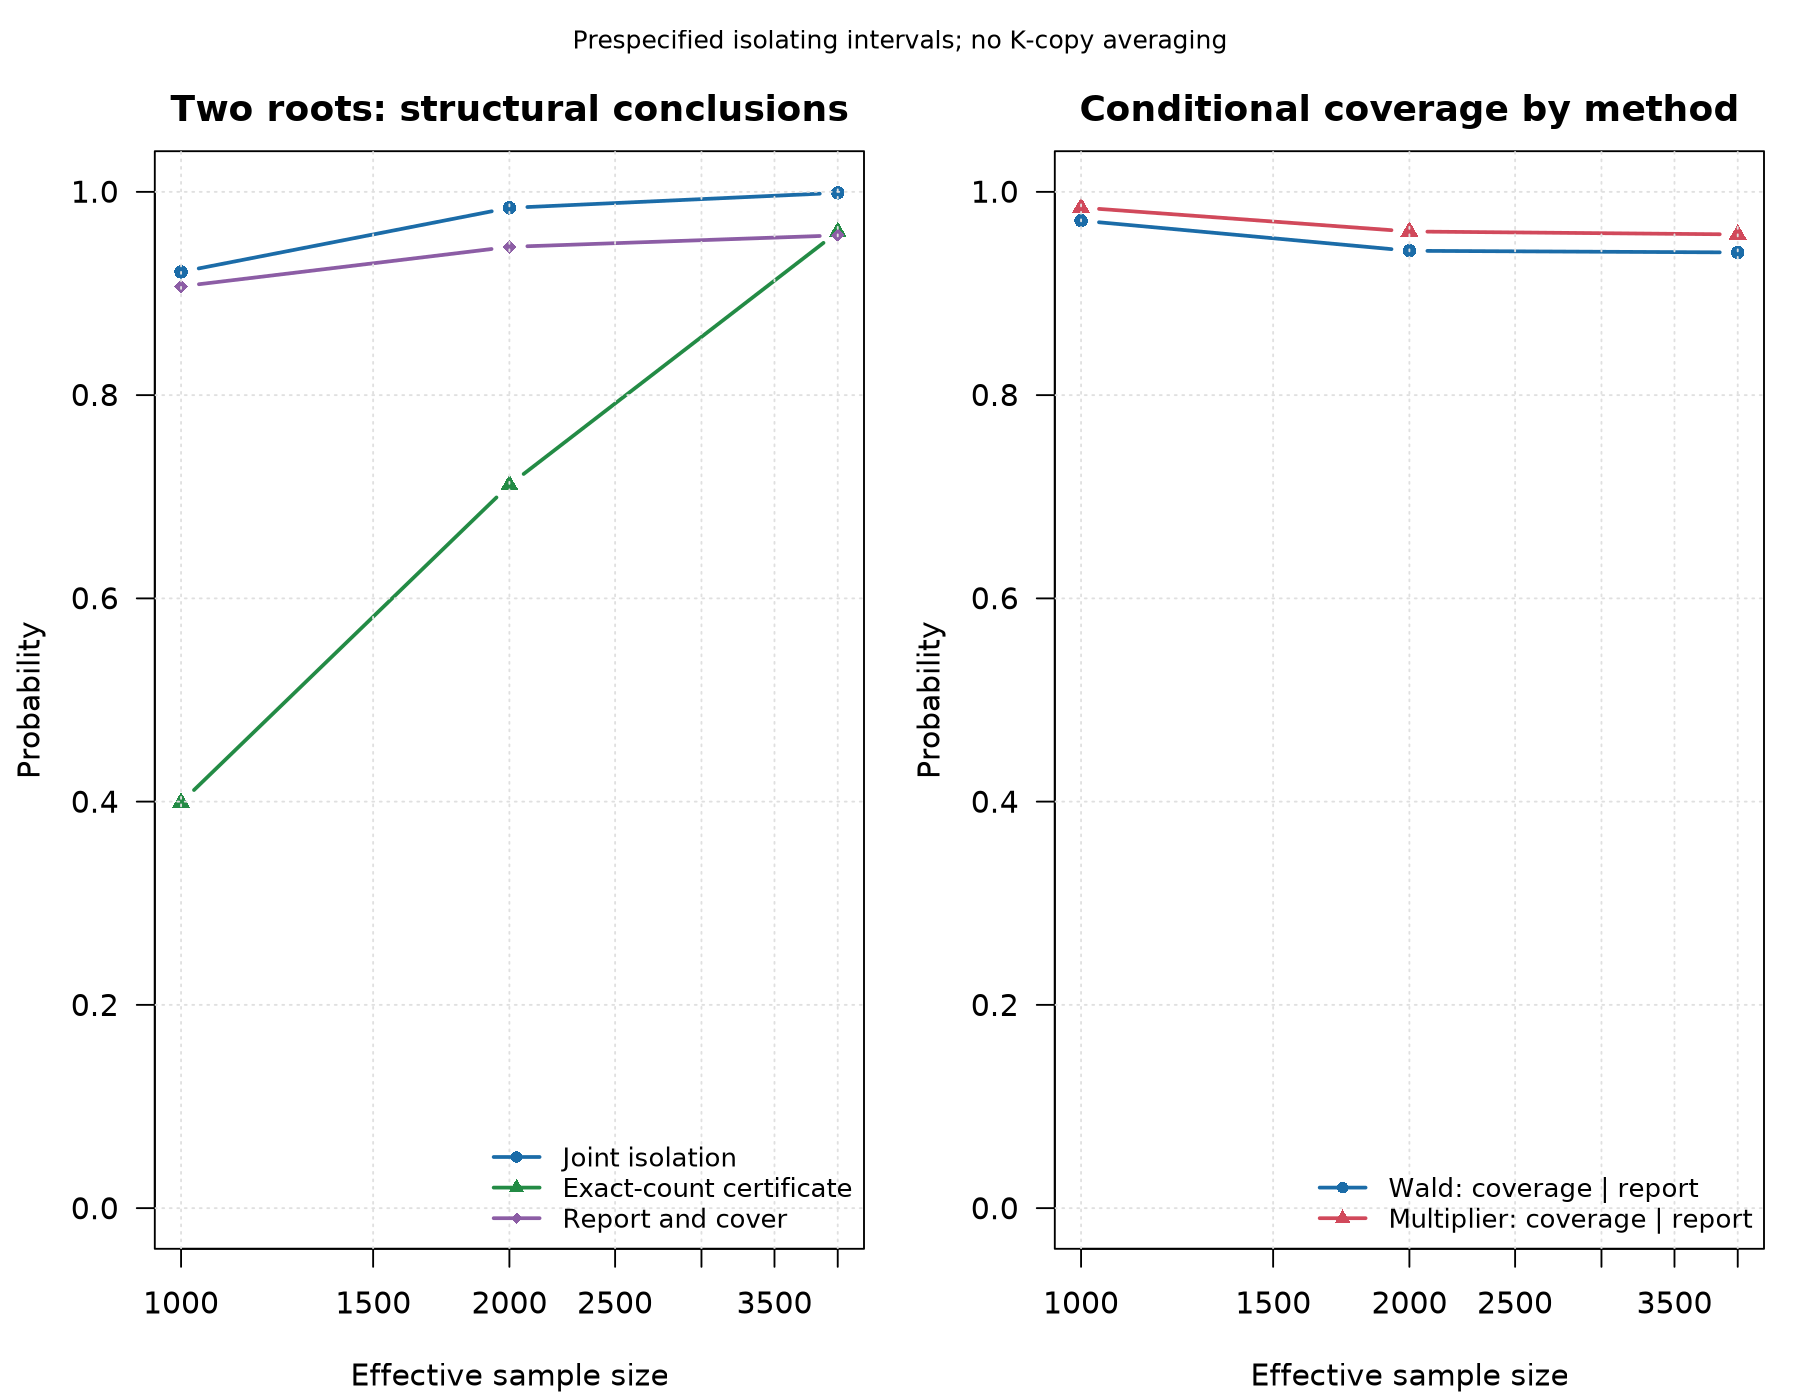
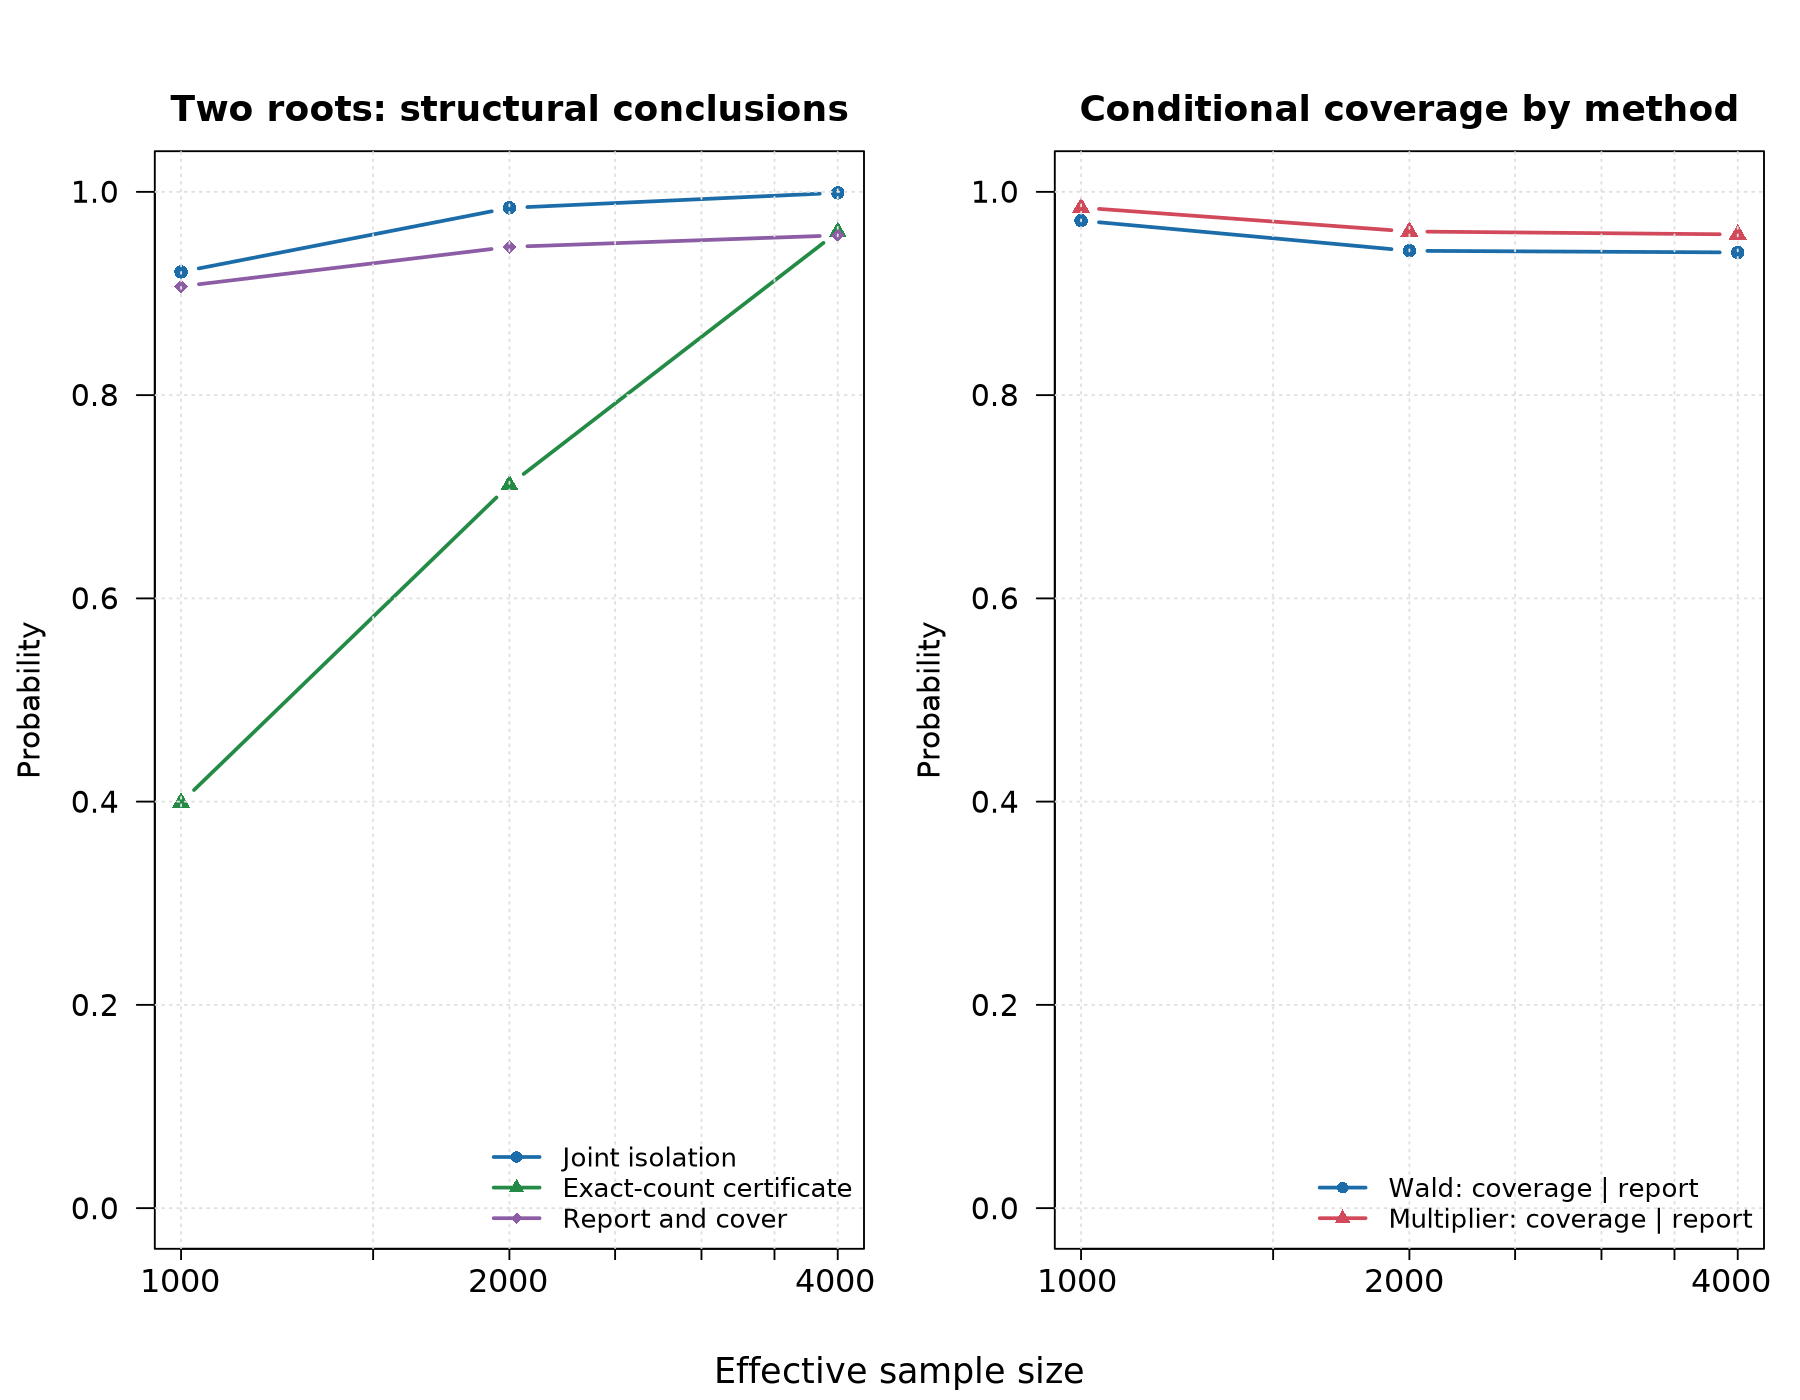
Finalize v1.3.0 reproducibility package

diff --git a/scripts/verify.py b/scripts/verify.py
@@ -21,6 +21,7 @@ SIMULATION_FILES = (
     "table_03_root_inference.csv",
     "table_04_special_power.csv",
     "table_05_tail_strata.csv",
+    "table_07_ablation.csv",
 )
 SIMULATION_FIGURES = (
     "figure_01_tangency_contraction.png",
@@ -41,6 +42,7 @@ HILLSTROM_FILES = (
     "bootstrap_suprema.csv",
     "audit_checks.csv",
     "rng_state_hashes.csv",
+    # Frozen pipeline filename; this is manuscript Table 8.
     "table_06_hillstrom_application.csv",
 )
 
@@ -83,6 +85,13 @@ def digest(path: Path) -> str:
 def csv_rows(path: Path) -> list[dict[str, str]]:
     with path.open(newline="", encoding="utf-8") as handle:
         return list(csv.DictReader(handle))
+
+
+def csv_table(path: Path) -> tuple[tuple[str, ...], list[dict[str, str]]]:
+    with path.open(newline="", encoding="utf-8") as handle:
+        reader = csv.DictReader(handle)
+        rows = list(reader)
+        return tuple(reader.fieldnames or ()), rows
 
 
 def manifest_entries(audit: Audit) -> dict[str, str]:
@@ -196,6 +205,7 @@ def verify_simulation(audit: Audit) -> None:
         "table_03_root_inference.csv": 12,
         "table_04_special_power.csv": 6,
         "table_05_tail_strata.csv": 5,
+        "table_07_ablation.csv": 5,
     }
     for name, count in expected_output_rows.items():
         path = output_directory / name
@@ -218,6 +228,41 @@ def verify_simulation(audit: Audit) -> None:
     audit.require(
         sum(int(row["replications"]) for row in tail) == 2032,
         "Tail-stratum replication total changed",
+    )
+
+    ablation = csv_rows(output_directory / "table_07_ablation.csv")
+    audit.require(
+        [(row["panel"], row["cell_id"], row["quantity"]) for row in ablation]
+        == [
+            ("A", "M004_LN_EQUAL_n500", "Curve coverage"),
+            ("A", "M008_LN_NO_ROOT_n500", "Curve coverage"),
+            ("A", "M052_TWO_ROOT_SV_POWER_n2000", "Curve coverage"),
+            ("B", "M008_LN_NO_ROOT_n500", "No root"),
+            ("B", "M052_TWO_ROOT_SV_POWER_n2000", "Reversal"),
+        ],
+        "Ablation rows or order changed",
+    )
+    audit.require(
+        all(row["denominator"] == "2032" for row in ablation),
+        "Ablation denominator changed",
+    )
+    audit.require(
+        [
+            (
+                row["continuum_simultaneous"],
+                row["grid_simultaneous"],
+                row["grid_pointwise"],
+            )
+            for row in ablation
+        ]
+        == [
+            ("0.946", "0.946", "0.928"),
+            ("0.938", "0.938", "0.899"),
+            ("0.954", "0.954", "0.907"),
+            ("0.794", "0.794", "0.850"),
+            ("0.425", "0.425", "0.519"),
+        ],
+        "Ablation estimates changed",
     )
 
 
@@ -286,10 +331,17 @@ def verify_hillstrom(audit: Audit) -> None:
         [int(row["replication"]) for row in bootstrap] == list(range(1, 10000)),
         "Hillstrom bootstrap indices changed",
     )
-    figure = directory / "figure_03_hillstrom_moment_contrast.pdf"
-    audit.require(figure.is_file(), "Hillstrom figure is missing")
-    if figure.is_file():
-        audit.require(figure.read_bytes()[:4] == b"%PDF", "Hillstrom figure is not PDF")
+    for name in (
+        "figure_03_hillstrom_moment_contrast.pdf",
+        "figure_03_hillstrom_moment_contrast_jns.pdf",
+    ):
+        figure = directory / name
+        audit.require(figure.is_file(), f"Hillstrom figure is missing: {name}")
+        if figure.is_file():
+            audit.require(
+                figure.read_bytes()[:4] == b"%PDF",
+                f"Hillstrom figure is not PDF: {name}",
+            )
 
 
 def png_dimensions(path: Path) -> tuple[int, int] | None:
@@ -306,7 +358,7 @@ def compare_simulation(audit: Audit, generated: Path) -> None:
         audit.require(actual.is_file(), f"Generated simulation file is missing: {name}")
         if actual.is_file():
             audit.require(
-                digest(actual) == digest(expected / name),
+                csv_table(actual) == csv_table(expected / name),
                 f"Generated simulation values differ: {name}",
             )
     for name in SIMULATION_FIGURES:
@@ -326,7 +378,7 @@ def compare_hillstrom(audit: Audit, generated: Path) -> None:
         audit.require(actual.is_file(), f"Generated Hillstrom file is missing: {name}")
         if actual.is_file():
             audit.require(
-                digest(actual) == digest(expected / name),
+                csv_table(actual) == csv_table(expected / name),
                 f"Generated Hillstrom values differ: {name}",
             )
     figure = generated / "figure_03_hillstrom_moment_contrast.pdf"

diff --git a/README.md b/README.md
@@ -2,8 +2,8 @@
 
 This repository contains the code, locked configurations, aggregate reference
 inputs, and reference outputs needed to reproduce the numerical tables and
-figures in *Simultaneous nonparametric inference for critical moment orders
-under prespecified tail-crossing bounds*.
+figures in *Simultaneous nonparametric inference and structural root-count
+certification for critical moment orders*.
 
 ## Requirements
 
@@ -27,31 +27,47 @@ This checks every committed file against `SHA256SUMS.txt`, rejects private or
 unexpected artifacts, and verifies the locked simulation and application
 contracts.
 
-## Rebuild Tables 1--5 and Figures 1--2
+## Simulation materials for Tables 1--7 and Figures 1--2
 
-The fast rebuild uses the committed aggregate simulation inputs:
+Tables 1 and 2 describe the data-generating mechanisms and the locked Monte
+Carlo cell catalogue specified in `simulation/R/dgp.R` and
+`simulation/config/main_final_v003.R`. The fast rebuild uses the committed
+aggregate inputs to regenerate the numerical source files for Tables 3--7
+and Figures 1--2:
 
 ```sh
 make rebuild
 ```
 
-Outputs are written to `generated/rebuild/` and checked against the committed
-table data. PNG rendering is checked at the locked dimensions of
-1800 by 1400 pixels.
+Outputs are written to `generated/rebuild/`. Table values are checked against
+the committed references. The stable pipeline filenames map to the manuscript
+as follows:
 
-For an independent reaggregation, download the release asset
-`main_final_v003_replication_results.rds` from release `v1.0.0` into the
-repository root, then run:
+- `table_02_benchmark.csv`: Table 3;
+- `table_03_root_inference.csv`: Table 4;
+- `table_04_special_power.csv`: Table 5;
+- `table_05_tail_strata.csv`: Table 6;
+- `table_07_ablation.csv`: Table 7.
+
+`table_01_design.csv` is a compact design summary. PNG rendering is checked
+at the locked dimensions of 1800 by 1400 pixels.
+
+For an independent reaggregation, download
+`main_final_v003_replication_results.rds`, which is intentionally stored in
+release `v1.0.0`, into the repository root, then run:
 
 ```sh
-gh release download v1.0.0 --pattern main_final_v003_replication_results.rds
+gh release download v1.0.0 \
+  --repo cila-a11y/critical-moment-inference-code \
+  --pattern main_final_v003_replication_results.rds
 make reproduce
 ```
 
 The asset contains 284,480 replication-level result rows, is 36,063,100 bytes,
 and has SHA-256
[1 lines of base64/hex data omitted]
-The script verifies these facts before reading it.
+Later source releases do not duplicate this asset. The script verifies its
+row count, byte count, and digest before reading it.
 
 To rerun all 109,728 Monte Carlo units under the locked design:
 
@@ -88,7 +104,7 @@ make reproduce-depth
 The exact configuration and a concise account of the audit are stored with
 the frozen results under `results/simulation/enclosure_depth_v001/`.
 
-## Reproduce Table 6 and Figure 3
+## Reproduce Table 8 and Figure 3
 
 The Hillstrom CSV is not redistributed because no formal upstream
 redistribution licence was located. The acquisition script downloads or
@@ -108,6 +124,8 @@ The application compares the `No E-Mail` and `Mens E-Mail` groups, runs the
 locked 9,999-repetition simultaneous multiplier procedure, reconstructs the
 continuum enclosure, and checks the generated scientific files against the
 committed references in `results/hillstrom/`.
+The stable pipeline file `table_06_hillstrom_application.csv` contains the
+source values for manuscript Table 8.
 
 ### Rebuild the manuscript-specific Figure 3
 
